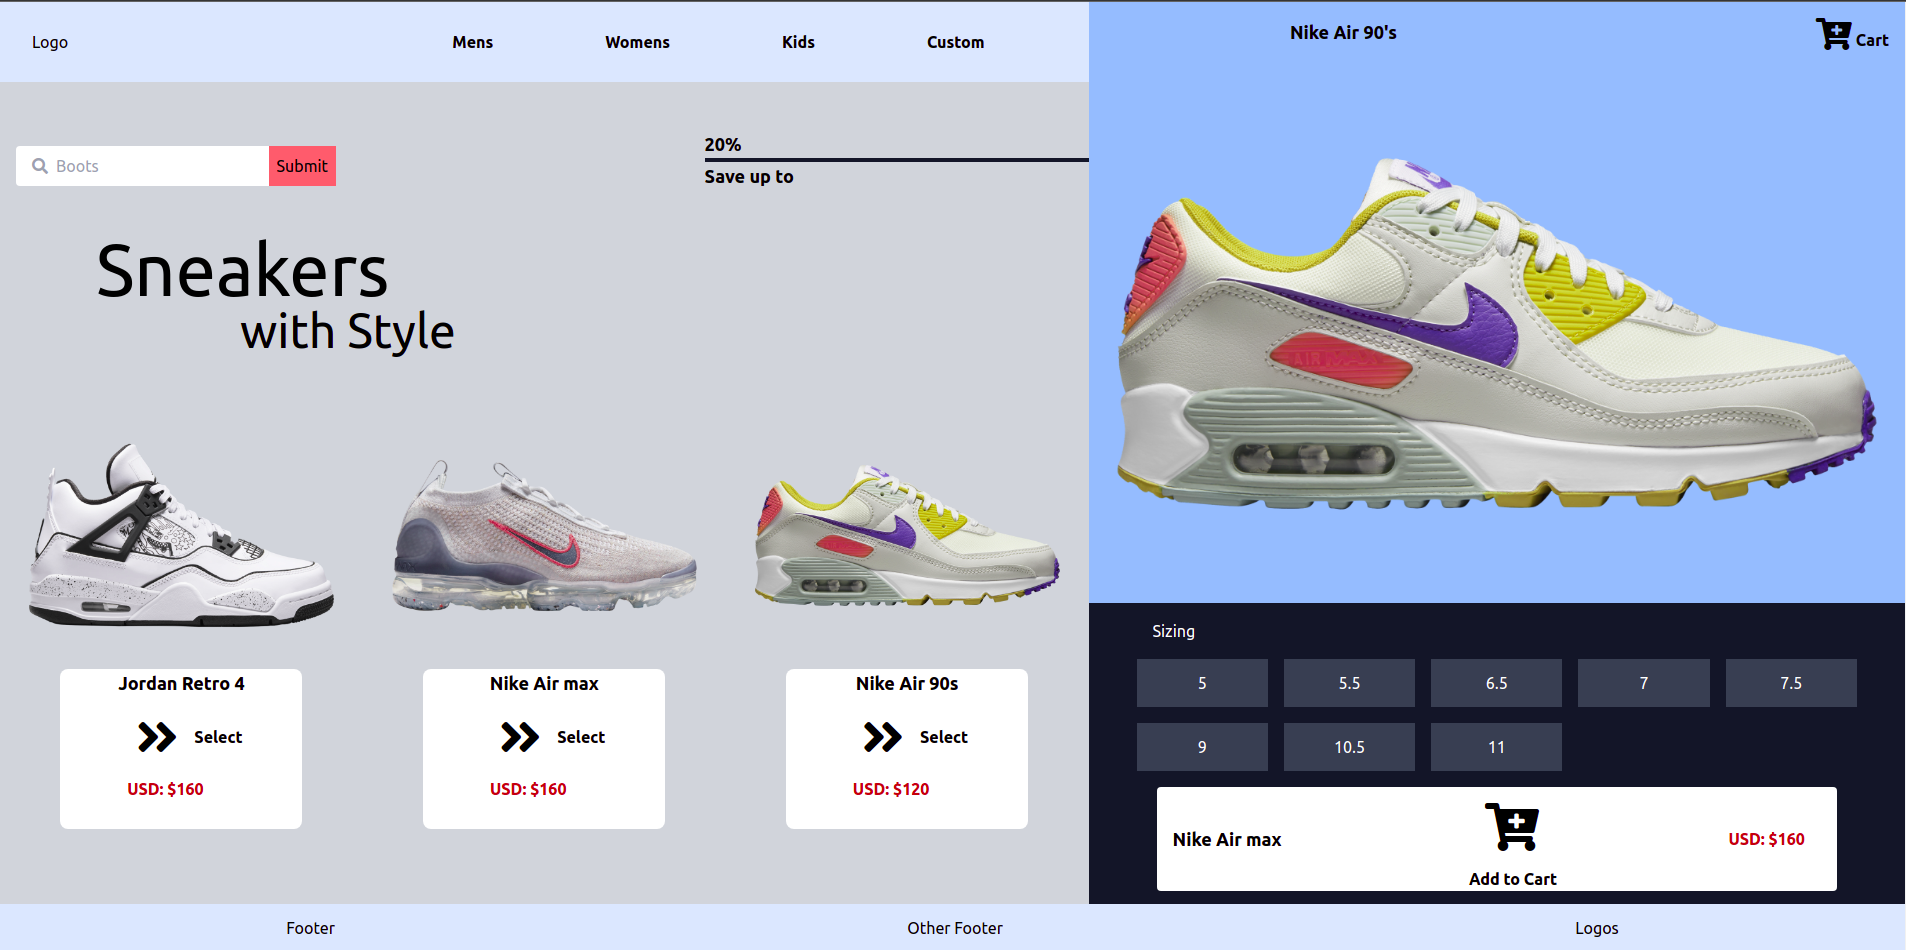
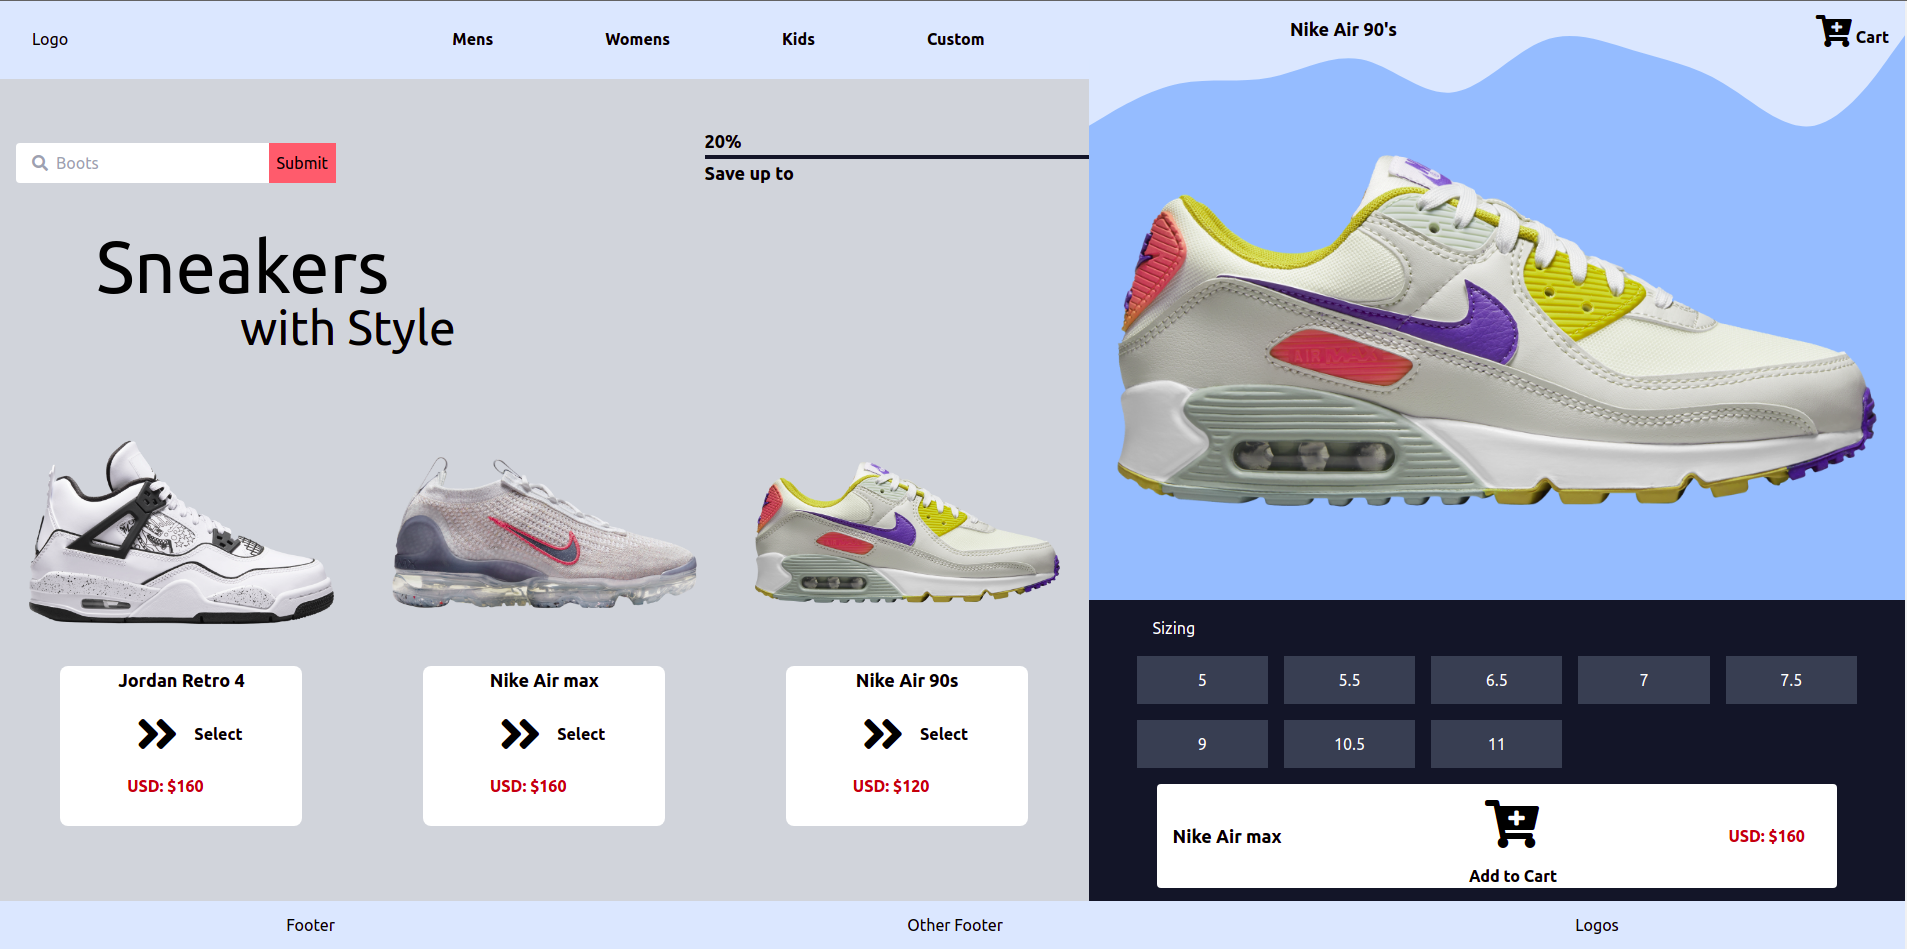
added svg wave to right side top

diff --git a/nike-shoe.html b/nike-shoe.html
@@ -121,17 +121,27 @@
             <section class="lg:w-3/6">
                 <div class="flex flex-col h-full mb-auto bg-gray-700">
 
-                    <!-- Shoe and Cart Section -->
-                    <div class="h-4/6 bg-blue-300">
-                        <div class="flex">
+                    <!-- Shoe and Cart Header Section -->
+                    <div class="h-4/6 bg-blue-300 relative">
+
+                        <!-- Path Clip for wavy shape -->
+                        <svg class="w-full absolute z-20" xmlns="http://www.w3.org/2000/svg" viewBox="0 0 1440 320">
+                            <path fill="#dbeafe" fill-opacity="1"
+                                d="M0,224L26.7,208C53.3,192,107,160,160,149.3C213.3,139,267,149,320,138.7C373.3,128,427,96,480,106.7C533.3,117,587,171,640,165.3C693.3,160,747,96,800,74.7C853.3,53,907,75,960,90.7C1013.3,107,1067,117,1120,149.3C1173.3,181,1227,235,1280,224C1333.3,213,1387,139,1413,101.3L1440,64L1440,0L1413.3,0C1386.7,0,1333,0,1280,0C1226.7,0,1173,0,1120,0C1066.7,0,1013,0,960,0C906.7,0,853,0,800,0C746.7,0,693,0,640,0C586.7,0,533,0,480,0C426.7,0,373,0,320,0C266.7,0,213,0,160,0C106.7,0,53,0,27,0L0,0Z">
+                            </path>
+                        </svg>
+
+                        <!-- Cart Header Section -->
+                        <div class="flex w-full relative z-30">
                             <h1 class="text-lg font-bold mx-auto pt-4">Nike Air 90's</h1>
                             <span class="ml-auto p-4 font-semibold">
                                 <i class="fas fa-cart-plus fa-2x"></i>
                                 Cart
                             </span>
-
                         </div>
-                        <div class="p-4">
+
+                        <!-- Photo -->
+                        <div class="p-4 z-40 relative">
                             <img class="resized"
                                 src="https://images.footlocker.com/is/image/EBFL2/A8726100_a1?wid=2000&hei=2000&fmt=png-alpha"
                                 alt="nike">
